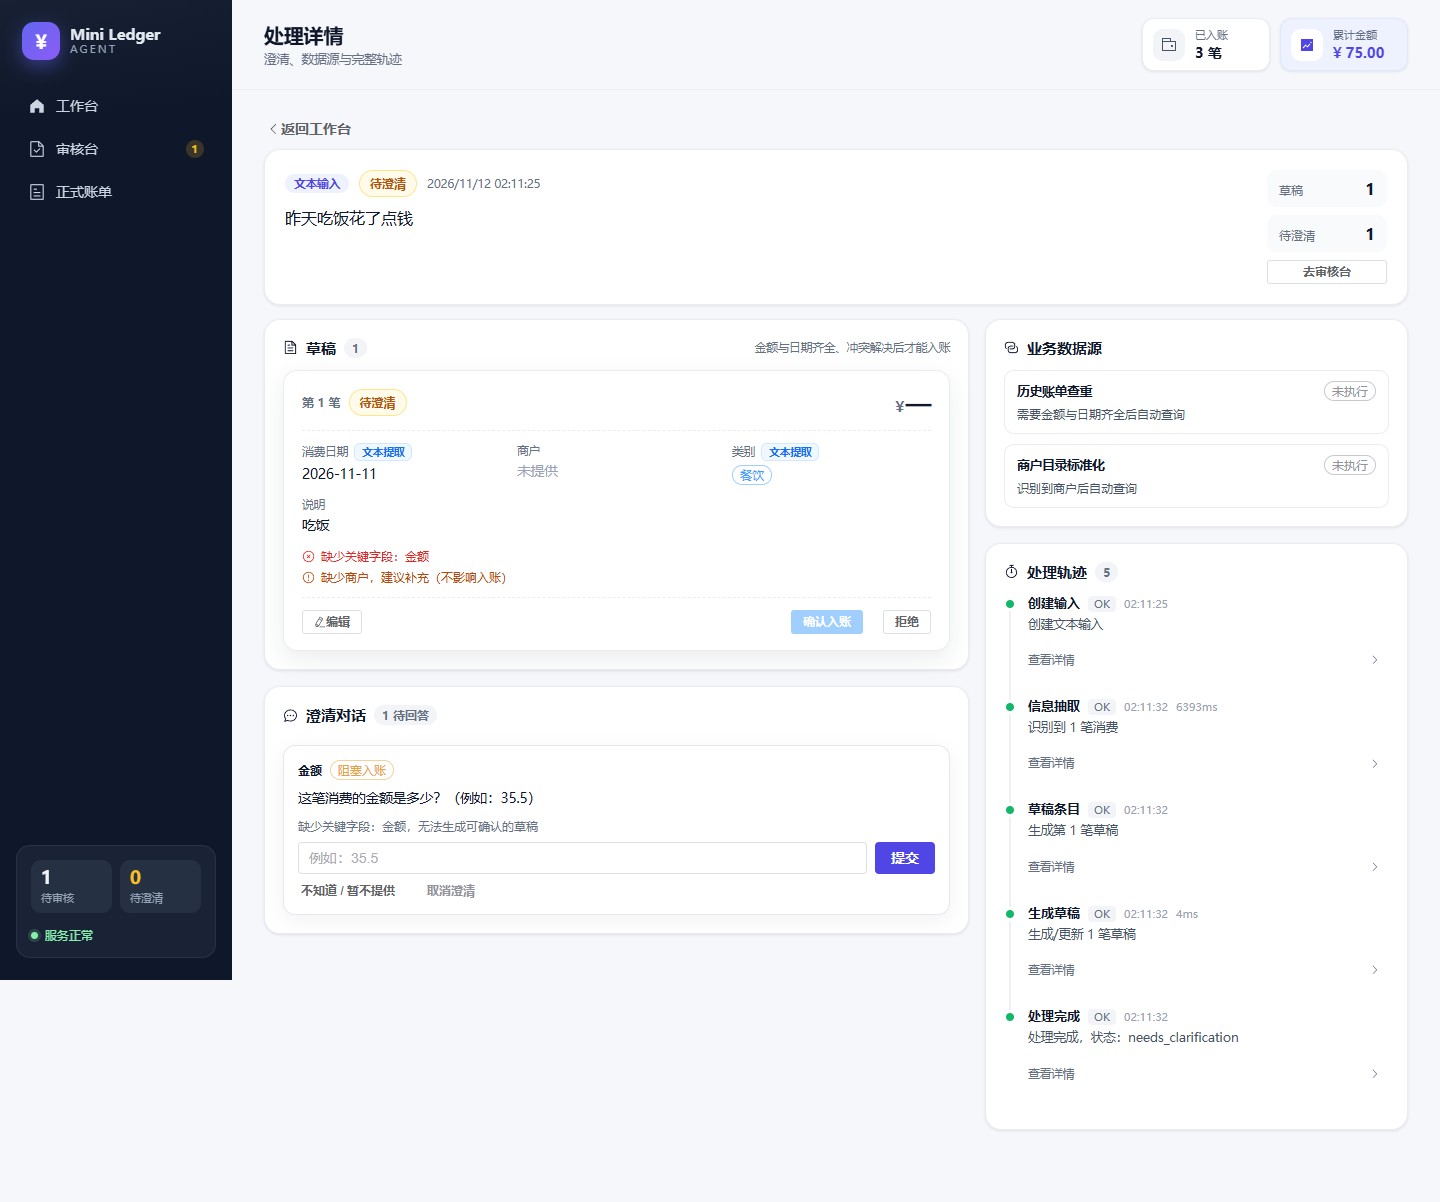
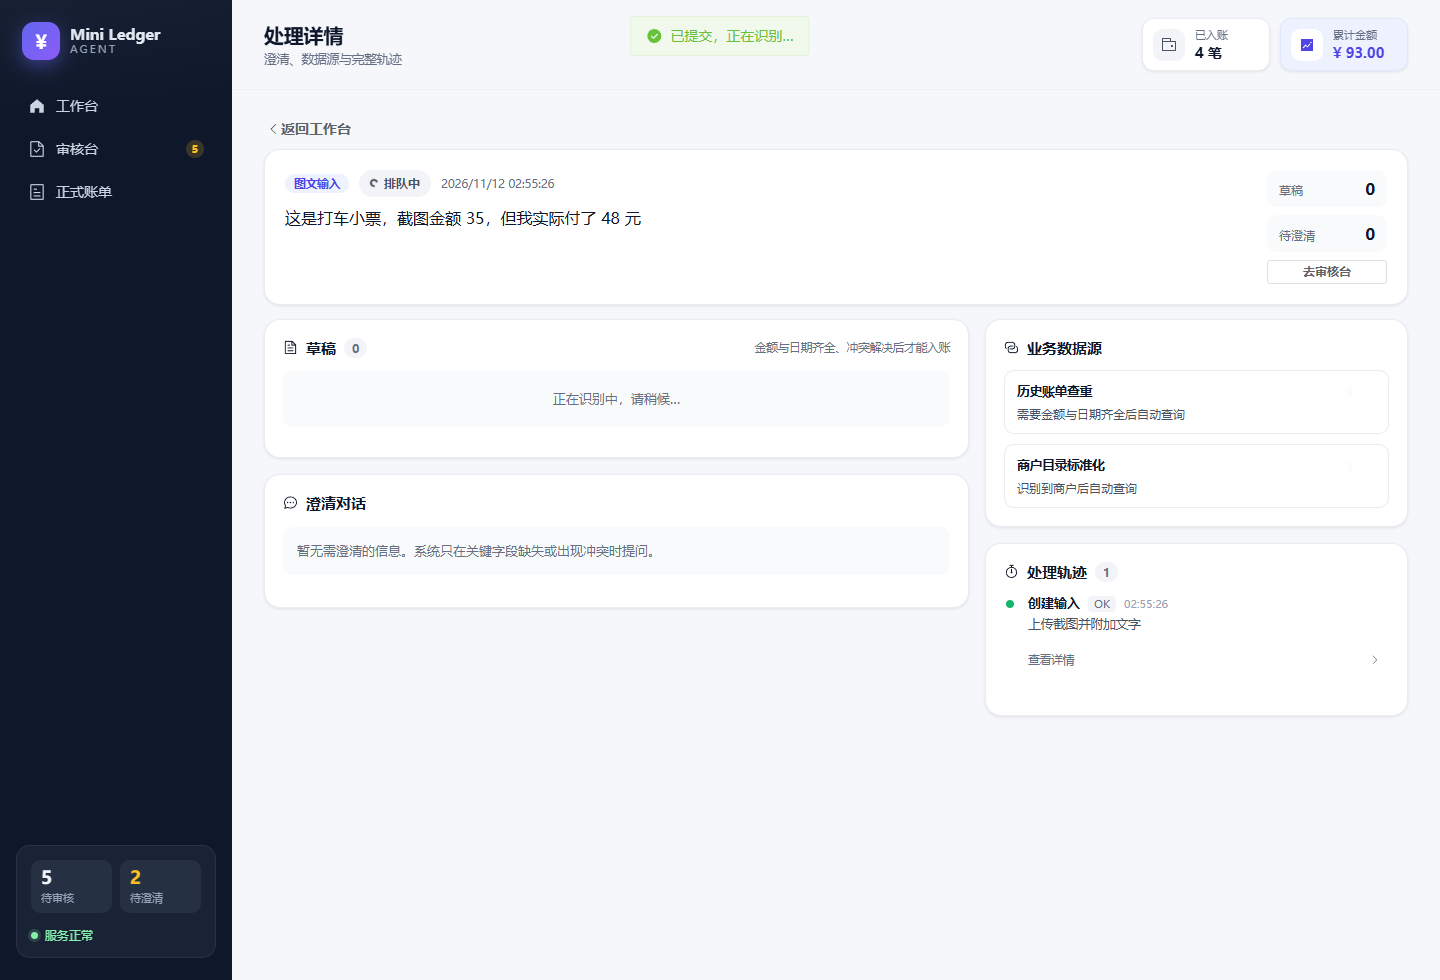
feat: deterministic text-vs-screenshot conflict detection for mixed input

diff --git a/backend/app/services/pipeline.py b/backend/app/services/pipeline.py
@@ -8,9 +8,10 @@ plain Python so they can be trusted and tested.
 from __future__ import annotations
 
 import logging
+import re
 import time
 import uuid
-from datetime import UTC, date, datetime
+from datetime import UTC, date, datetime, timedelta
 from decimal import Decimal
 from typing import Any
 
@@ -174,6 +175,59 @@ async def _upsert_draft(
     session.add(draft)
     await session.flush()
     return draft, True
+
+
+_AMOUNT_VERB = re.compile(
+    r"(?:实际|一共|总共|共|合计|花了|付了|支付了?|消费了?)\s*[^\d]{0,4}(\d+(?:\.\d{1,2})?)"
+)
+_AMOUNT_UNIT = re.compile(r"(\d+(?:\.\d{1,2})?)\s*(?:元|块|块钱)")
+_DATE_ABS = re.compile(r"(20\d{2})[-/年.](\d{1,2})[-/月.](\d{1,2})")
+_RELATIVE_DAYS = {"昨天": -1, "昨日": -1, "今天": 0, "今日": 0, "前天": -2, "大前天": -3}
+
+
+def _flag_text_conflicts(draft: Draft, text: str, today: date) -> None:
+    """For mixed inputs, compare numbers/dates in the text with the screenshot.
+
+    The LLM is asked to flag conflicts, but small models often silently prefer
+    the screenshot. This deterministic pass guarantees the "35.5 vs 40" case
+    becomes an explicit conflict question.
+    """
+    if not text:
+        return
+    amounts = [
+        Decimal(match.group(1))
+        for pattern in (_AMOUNT_VERB, _AMOUNT_UNIT)
+        for match in pattern.finditer(text)
+    ]
+    conflicts = dict(draft.conflict or {})
+    if amounts and draft.amount is not None:
+        proposed = amounts[-1]
+        if abs(proposed - draft.amount) > Decimal("0.009"):
+            conflicts.setdefault(
+                "amount",
+                {"existing": str(draft.amount), "proposed": str(proposed)},
+            )
+
+    parsed_date: date | None = None
+    match = _DATE_ABS.search(text)
+    if match:
+        try:
+            parsed_date = date(int(match.group(1)), int(match.group(2)), int(match.group(3)))
+        except ValueError:
+            parsed_date = None
+    if parsed_date is None:
+        for word, delta in _RELATIVE_DAYS.items():
+            if word in text:
+                parsed_date = today + timedelta(days=delta)
+                break
+    if parsed_date is not None and draft.txn_date is not None and parsed_date != draft.txn_date:
+        conflicts.setdefault(
+            "txn_date",
+            {"existing": str(draft.txn_date), "proposed": str(parsed_date)},
+        )
+
+    if conflicts:
+        draft.conflict = conflicts
 
 
 def _sync_from_extraction(draft: Draft, tx: Any, source: str, today: date) -> None:
@@ -520,6 +574,8 @@ async def build_drafts(session: AsyncSession, input_item: Input) -> list[Draft]:
             drafts.append(draft)
             continue
         _sync_from_extraction(draft, tx, source, today)
+        if input_item.kind == "mixed" and input_item.raw_text:
+            _flag_text_conflicts(draft, input_item.raw_text, today)
         await session.flush()
         await ensure_clarification(session, input_item, draft)
         drafts.append(draft)

diff --git a/backend/tests/test_flow.py b/backend/tests/test_flow.py
@@ -423,3 +423,41 @@ async def test_ambiguous_critical_field_blocks_confirm_until_resolved(client, se
     assert detail["drafts"][0]["status"] == "ready_for_review"
     ok = await client.post(f"/api/v1/drafts/{draft['id']}/confirm")
     assert ok.status_code == 200
+
+@pytest.mark.asyncio
+async def test_mixed_text_conflict_with_screenshot(client, session, fake_llm):
+    import io
+
+    from PIL import Image as PILImage
+
+    fake_llm["transactions"] = [
+        {"amount": 35.0, "date": "2026-11-10", "merchant": "滴滴出行", "category": "交通"}
+    ]
+    buf = io.BytesIO()
+    PILImage.new("RGB", (320, 480), "white").save(buf, format="PNG")
+    resp = await client.post(
+        "/api/v1/inputs/upload",
+        files={"file": ("trip.png", buf.getvalue(), "image/png")},
+        data={"text": "截图显示 35 元，但我实际付了 48 元"},
+    )
+    assert resp.status_code == 201, resp.text
+    await _run(session, resp.json()["id"])
+    detail = await _detail(client, resp.json()["id"])
+    draft = detail["drafts"][0]
+    assert draft["conflict"]["amount"]["existing"] == "35.00"
+    assert draft["conflict"]["amount"]["proposed"] == "48"
+    conflict = [c for c in detail["clarifications"] if c["kind"] == "conflict"]
+    assert conflict and conflict[0]["blocking"] is True
+
+    blocked = await client.post(f"/api/v1/drafts/{draft['id']}/confirm")
+    assert blocked.status_code == 409
+    assert blocked.json()["detail"]["code"] == "conflict_pending"
+
+    chosen = await client.post(
+        f"/api/v1/clarifications/{conflict[0]['id']}/answer",
+        json={"action": "choose", "choice": "new"},
+    )
+    assert chosen.status_code == 200
+    detail = await _detail(client, resp.json()["id"])
+    assert detail["drafts"][0]["amount"] == "48.00"
+    assert detail["drafts"][0]["status"] == "ready_for_review"

diff --git a/docs/ACCEPTANCE.md b/docs/ACCEPTANCE.md
@@ -7,7 +7,7 @@
 ```bash
 cd backend
 uv run ruff check app tests
-uv run pytest -q          # 21 passed
+uv run pytest -q          # 22 passed
 ```
 
 | 用例 | 覆盖要求 |
@@ -59,6 +59,7 @@ BASE=http://127.0.0.1:18080 node tools/e2e_ui.cjs
 | 截图上传、预览、持久化 | `POST /inputs/upload`、`frontend Workbench`、uploads volume | `test_image_upload_is_persisted`、UI E2E |
 | 文字 + 截图同时提交 | 统一输入框 `kind=mixed` | `test_mixed_text_and_image_input` |
 | 图文冲突 → 歧义确认 | 模型 `ambiguous_fields` → 阻塞确认 | `test_ambiguous_critical_field_blocks_confirm_until_resolved` |
+| 截图金额 35.5 vs 文字 40 | 确定性冲突检测 → 二选一 | `test_mixed_text_conflict_with_screenshot` |
 | 输入列表区分类型/状态/澄清/草稿 | `Workbench.vue`、`GET /inputs`（含最新追问） | UI + `test_input_list...` |
 | 金额/日期/商户/类别/来源 | `models.Draft.field_sources`、`DraftCard.vue` | UI 来源徽标 |
 | 关键字段缺失不可确认 | `ledger.confirm_draft` | `test_missing_amount_blocks_confirmation` |
